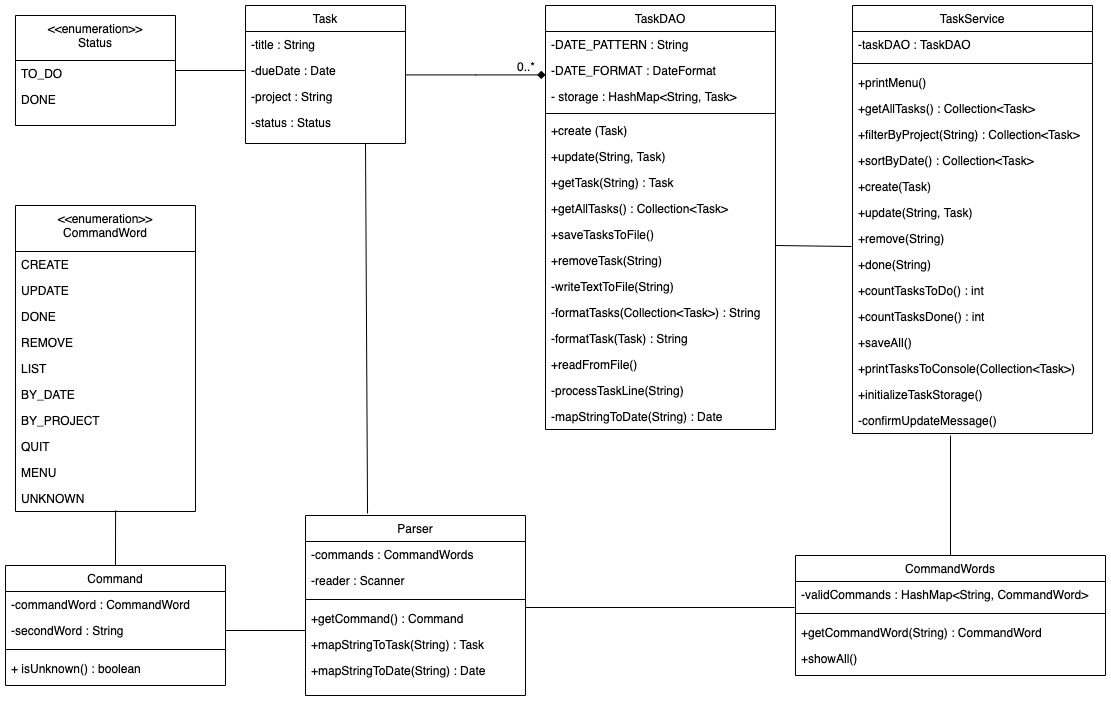
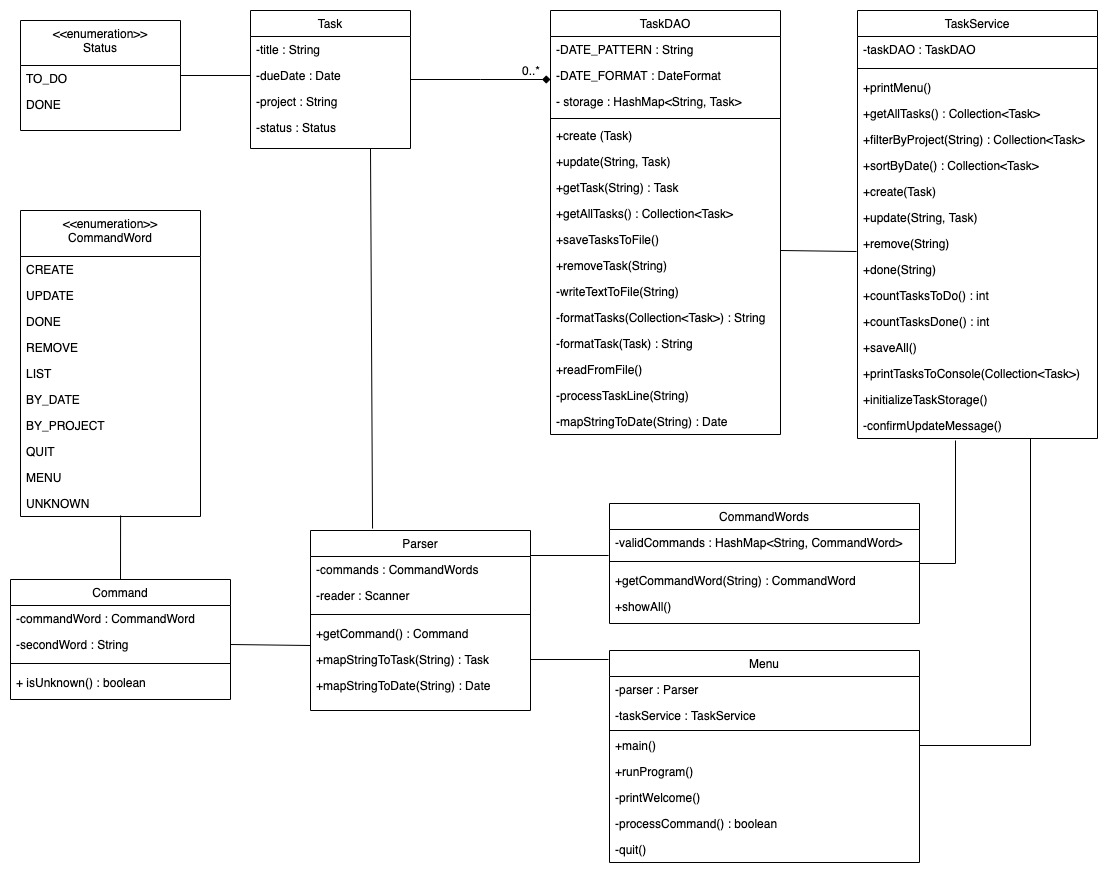
Updated diagram and improved markup of user guide

diff --git a/ToDoListYK/UserGuide.md b/ToDoListYK/UserGuide.md
@@ -6,53 +6,54 @@ You also can see the list of all task, sort them by due date or filter by projec
 
 
 ##Using To Do List
-* **How to use To Do List**
+
+## **How to use To Do List**
 
 For using To Do List, you need to launch the application through terminal and use it for typing input.
 
-* **Menu**
+## **Menu**
 
 To see the available features of the application, type "menu" to the terminal after the app is launched and welcome message displayed.
 
-* **Create a task**
+## **Create a task**
 
 To create a task in our To Do List, type "create" and then title, due date and name of the project split by ;. 
 
     Example: create To submit the individual project;01/04/2021;Individual project 
 
-* **Update a task**
+## **Update a task**
 
 To update a task in our To Do List, type "update" and then title of the task you want to edit, then changed info (due date and name of the project split by ;).
     
     Example: update To submit the individual project;09/04/2021;Individual project
     
-* **Change the status of the task to Done** 
+## **Change the status of the task to Done** 
 
 To change the status of the task, type "done" and the title of the task.
 
     Example: done To submit the individual project
 
-* **Remove a task** 
+## **Remove a task** 
 
 To remove the task, type "remove" and the title of the task.
 
      Example: remove To submit the individual project
      
-* **Sort tasks by due date**   
+## **Sort tasks by due date**   
 
 To sort the list of your tasks by date, type "by_date". 
 
 
-* **Filter tasks by project** 
+## **Filter tasks by project** 
 
 To filter out the tasks that belong to a certain project, type "by_project" and the title of the project.
 
-    Exemple: by_project Individual project
+    Example: by_project Individual project
     
-* **See the list of all tasks** 
+## **See the list of all tasks** 
 
 To see the list of all tasks, type "list".
 
-* **To save tasks** 
+## **To save tasks** 
 
 Task list is saved after you quit the application. So after you type "quit", the current list will be saved. When you launch the app again, all the tasks will be in place.
